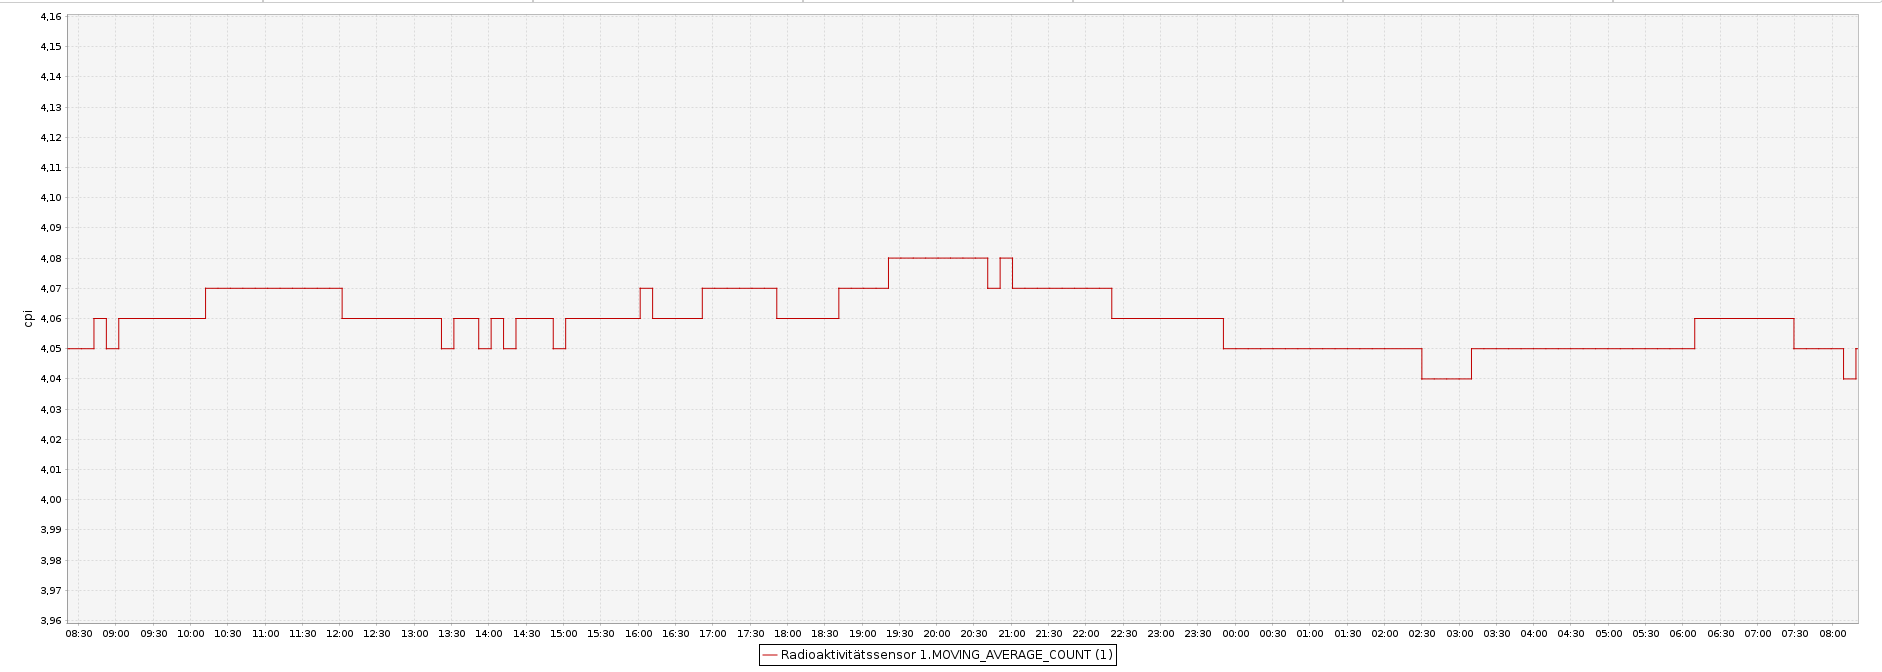
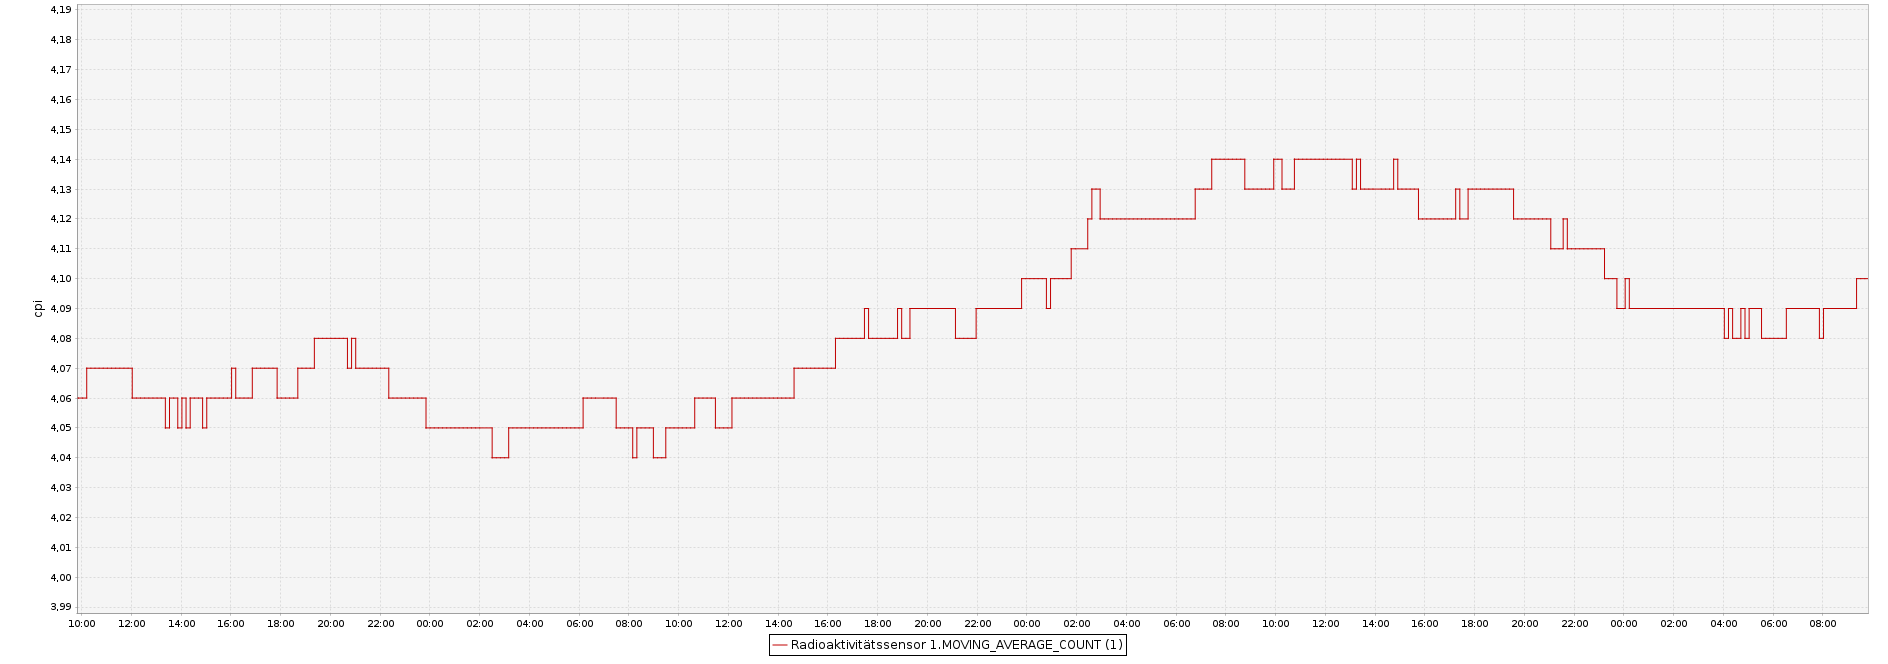
HB-UNI-Sensor1-RAD-AL53: documentation updates

diff --git a/AsksinPP_developments/sketches/HB-UNI-Sensor1-RAD-AL53/README.md b/AsksinPP_developments/sketches/HB-UNI-Sensor1-RAD-AL53/README.md
@@ -105,7 +105,7 @@
 
 - Beispiel eines Histogramms der Zählrate per Messintervall (im CCU Historian)
 
-![pic](Images/Counts_per_interval_histogram_24h.png)
+![pic](Images/Counts_per_interval_histogram_72h.png)
 
 - Beispiel eines Histogramms des gleitenden Mittelwerts (im CCU Historian)
 
